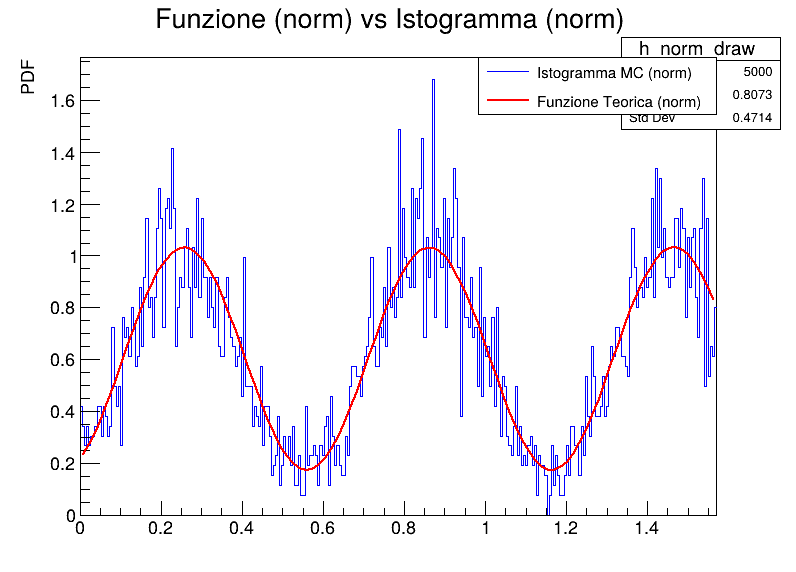
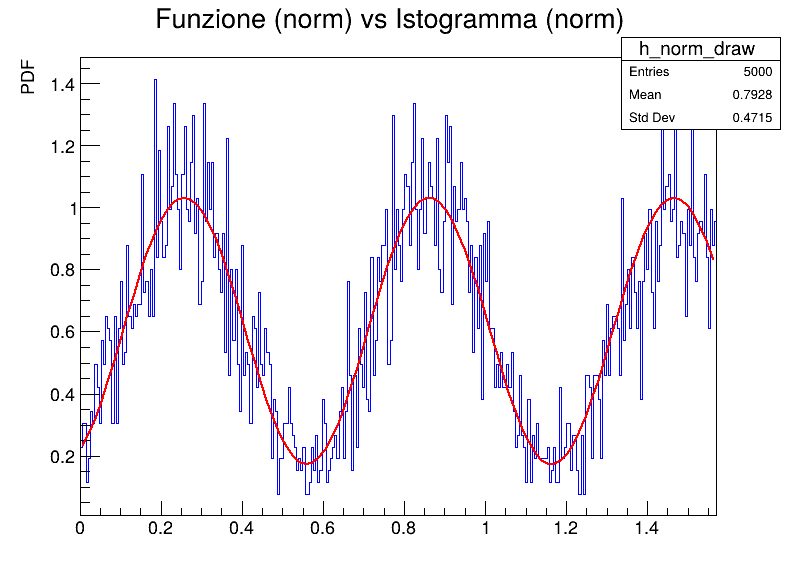
sto provando pto 3 scheda 2

diff --git a/mcgenerator.cpp b/mcgenerator.cpp
@@ -198,10 +198,6 @@ void MCgenerator::DrawFunction(const char* filename) const {
   TCanvas* canvas = new TCanvas("canvas", "Funzione vs Istogramma", 800, 600);
   h_norm->Draw("HISTO");
   f_scaled->Draw("SAME");
-  TLegend* leg = new TLegend(0.6, 0.8, 0.9, 0.9);
-  leg->AddEntry(h_norm, "Istogramma MC (norm)", "l");
-  leg->AddEntry(f_scaled, "Funzione Teorica (norm)", "l");
-  leg->Draw();
 
   canvas->Update();
   canvas->SaveAs(filename);
@@ -209,7 +205,6 @@ void MCgenerator::DrawFunction(const char* filename) const {
   delete canvas;
   delete f_scaled;  // Pulizia
   delete h_norm;    // Pulizia
-  delete leg;
 }
 
 /*void MCgenerator::FitHistogram()
